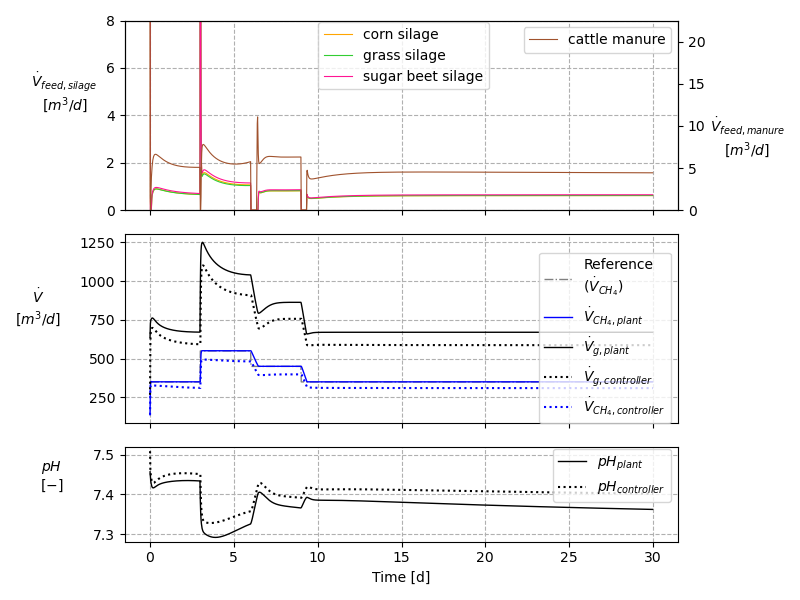
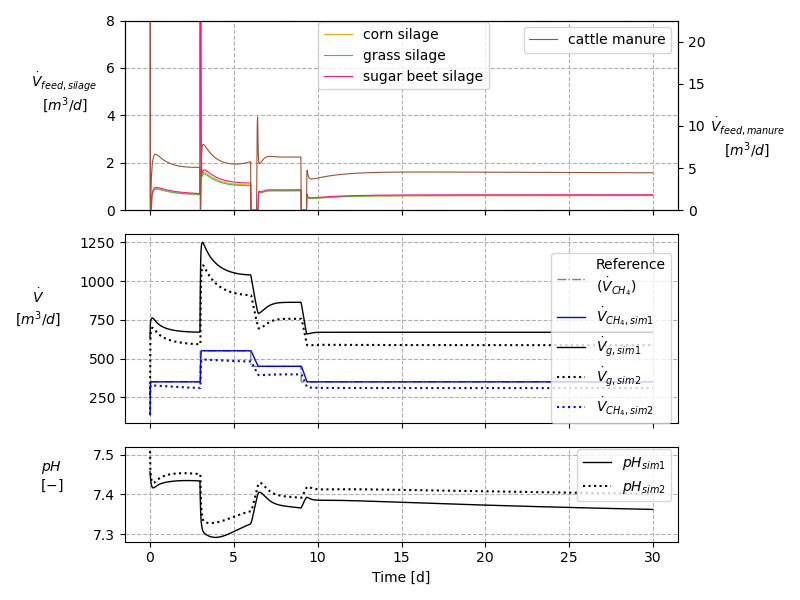
update plots for sensitivity analysis

diff --git a/ad_meal_prep_control/plot_generation/Controller_output_plotting/Output_Scenario_1a.py b/ad_meal_prep_control/plot_generation/Controller_output_plotting/Output_Scenario_1a.py
@@ -22,16 +22,17 @@ def controller_plotting_1a(scenario_names=None):
             fig = pkl.load(file)
         mpc = load_results(f'../scenarios/results/{scenario}_mpc_results.pkl')
         metadata = load_results(f'../scenarios/results/{scenario}_scenario_meta_data.pkl')
-        # Graph
+
+        # Sensitivity analysis:
         if not metadata['feedback']:
             plant_output = np.genfromtxt(f'../scenarios/results/Plant Output {scenario}.csv', delimiter=' ')
 
             fig.axes[2].plot(np.linspace(0, 30, num=plant_output.shape[0]), plant_output[:, 1], 'black',
-                             linestyle='dotted', label=r'$pH_{controller}$')
+                             linestyle='dotted', label=r'$pH_{sim 2}$')
             fig.axes[1].plot(np.linspace(0, 30, num=plant_output.shape[0]), plant_output[:, 0], 'black',
-                             linestyle='dotted', label=r"$\dot V_{g, controller}$")
+                             linestyle='dotted', label=r"$\dot V_{g, sim 2}$")
             fig.axes[1].plot(np.linspace(0, 30, num=plant_output.shape[0]), plant_output[:, 2], 'blue',
-                             linestyle='dotted', label=r"$\dot V_{CH_4, controller}$")
+                             linestyle='dotted', label=r"$\dot V_{CH_4, sim 2}$")
 
             error_ph = (f'{scenario}_NRMSE_pH = ', nRMSE(x_est=mpc['mpc']['_aux', 'y_4'], x_true=plant_output[:, [1]]))
             error_gas = (

diff --git a/ad_meal_prep_control/plot_generation/plot_scenario_1a_sensitivity.py b/ad_meal_prep_control/plot_generation/plot_scenario_1a_sensitivity.py
@@ -44,13 +44,13 @@ for scenario_name, plot_save_name in zip(scenario_names, plot_save_names):
                             linewidth=1,
                             linestyle="-",
                         ),
-                        label=r"$\dot V_{CH_4, plant}$",
+                        label=r"$\dot V_{CH_4, sim 1}$",
                     ),
                     "y_1": PlotVarProperty(
                         mpl_properties=MPLProperties(
                             color="black", linewidth=1, linestyle="-"
                         ),
-                        label=r"$\dot V_{g, plant}$",
+                        label=r"$\dot V_{g, sim 1}$",
                     ),
                 },
             ),
@@ -60,7 +60,7 @@ for scenario_name, plot_save_name in zip(scenario_names, plot_save_names):
                     "y_4": PlotVarProperty(
                         mpl_properties=MPLProperties(linewidth=1, linestyle="-",
                                                      color="black"),
-                        label="$pH_{plant}$",
+                        label="$pH_{sim 1}$",
                     )
                 },
             ),
